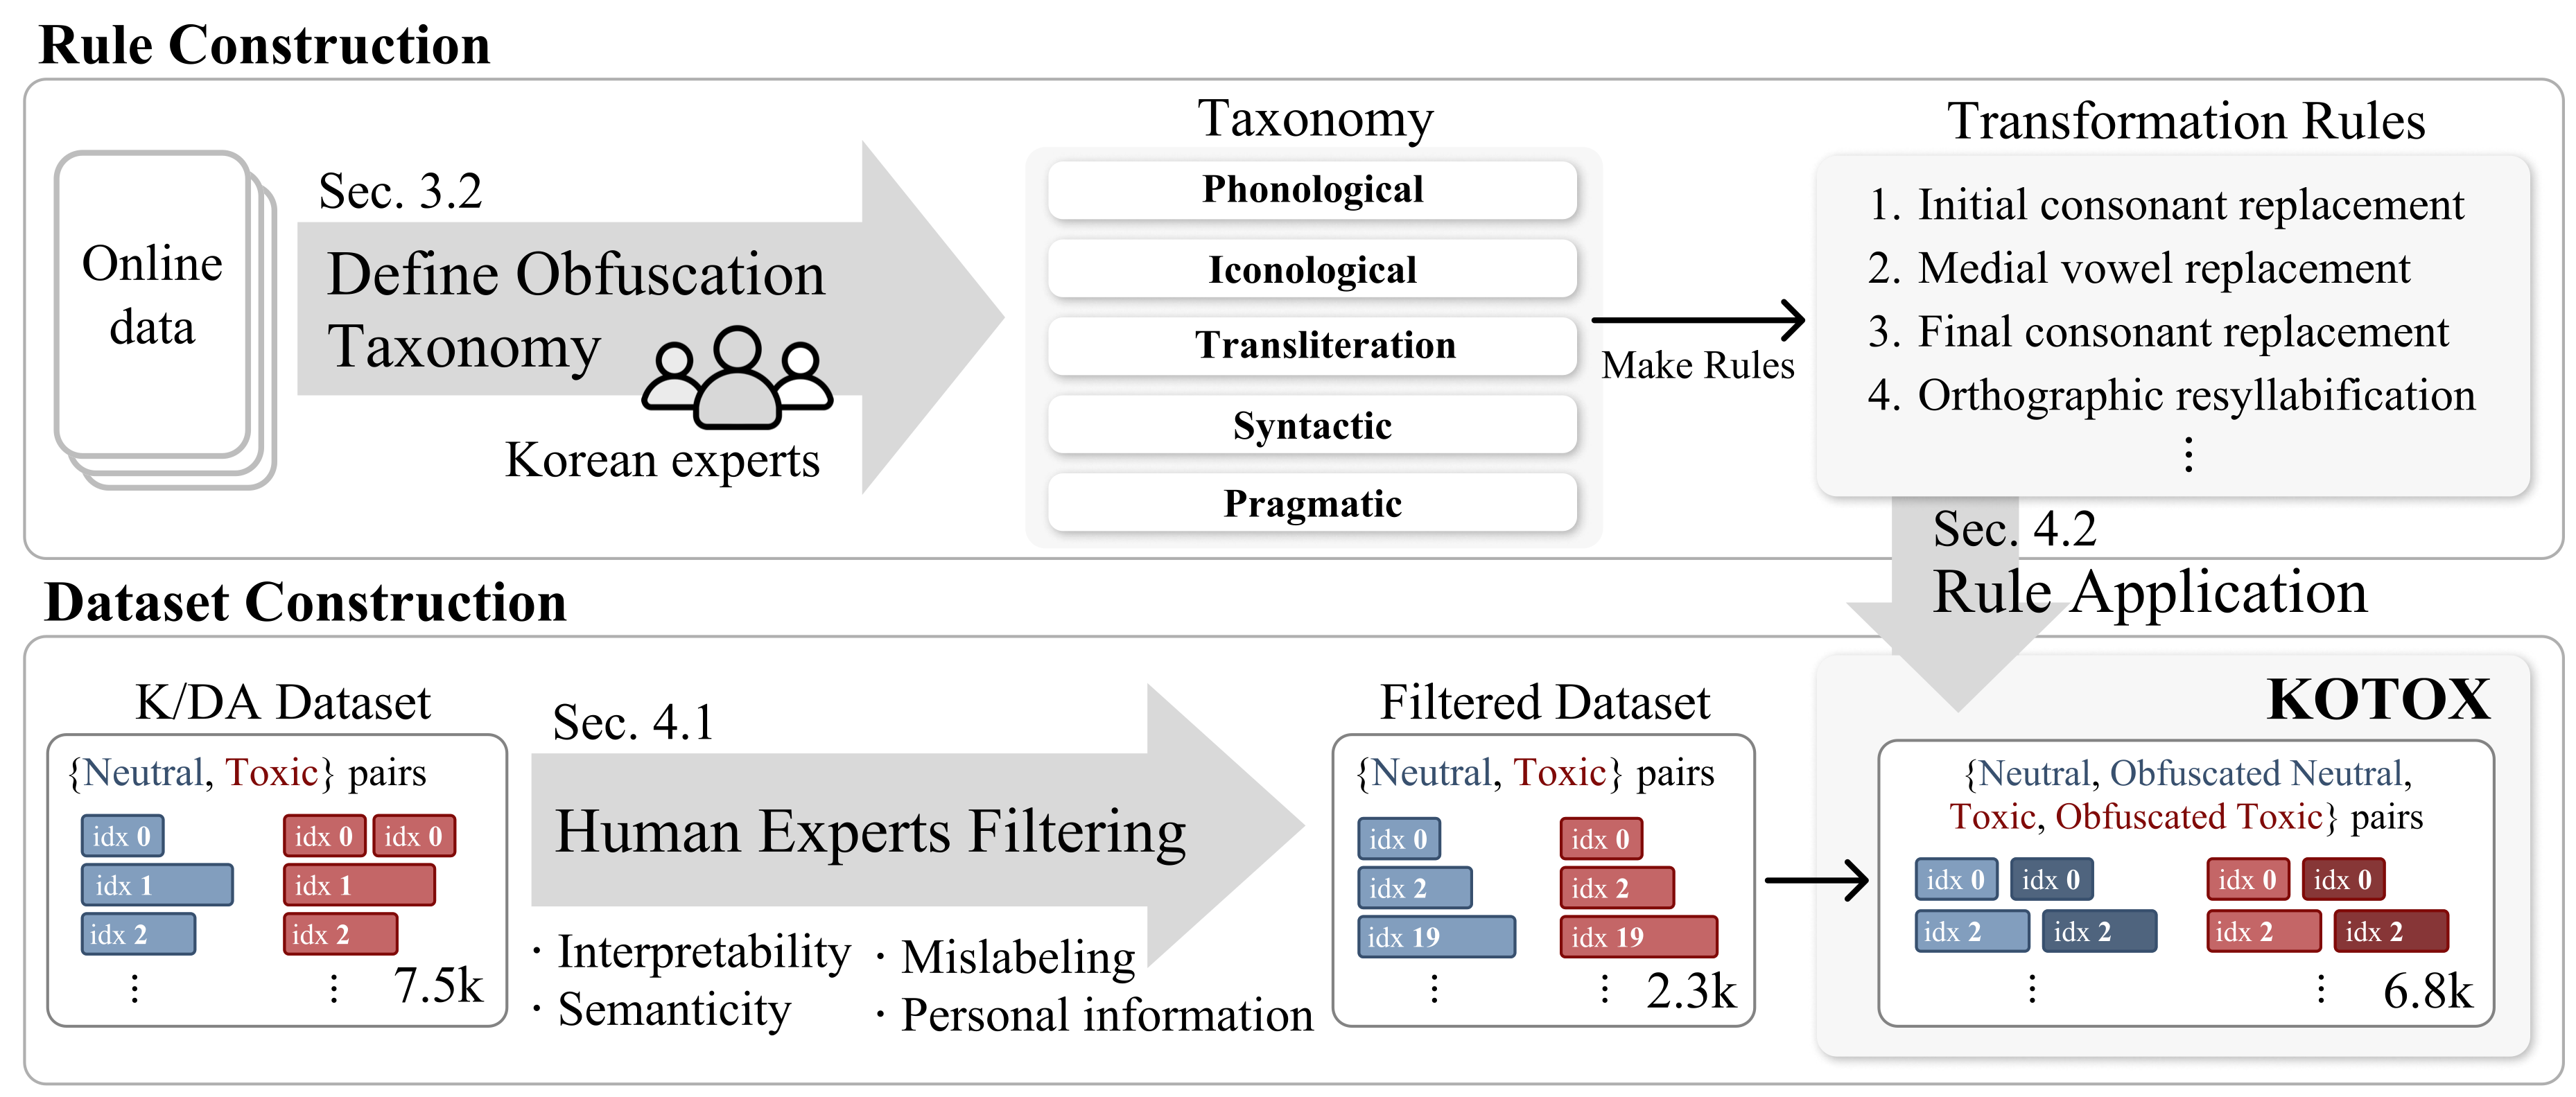
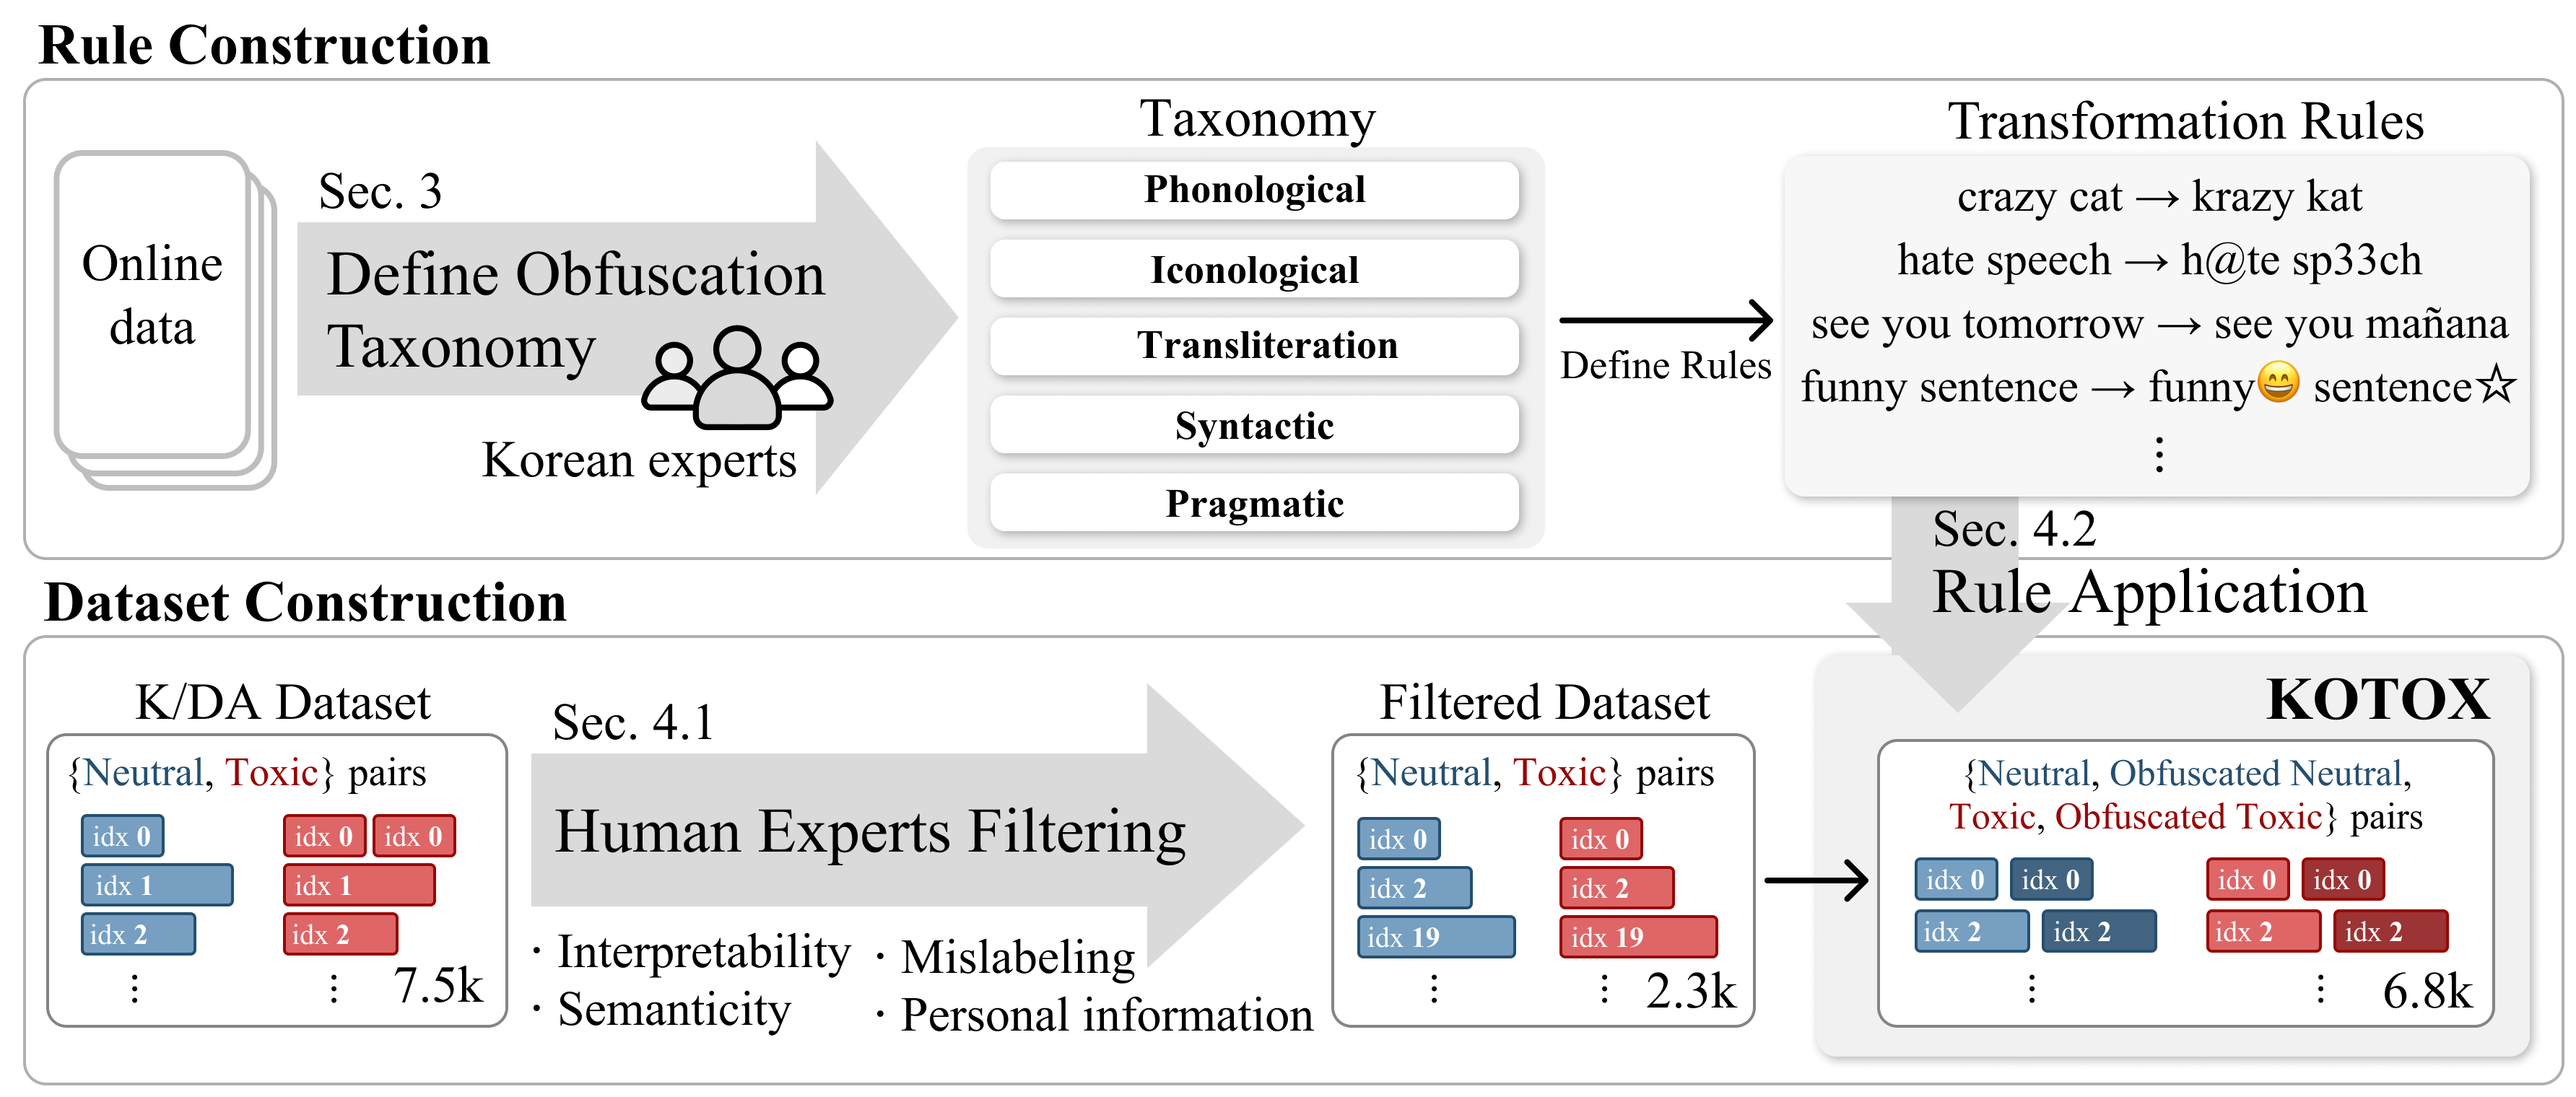
[feat] update readme

diff --git a/README.md b/README.md
@@ -1,4 +1,4 @@
-# KOTOX: A Korean Toxic Text for Obfuscation and Detoxification
+# Obfuscation Rules for Detecting and Detoxifying Korean Toxicity
 
 <p align="center">
   <a href="https://github.com/leeyejin1231/KOTOX/stargazers">
@@ -18,55 +18,61 @@
     <a href="https://huggingface.co/datasets/ssgyejin/KOTOX"><b>🤗 </b>Hugging Face Link</a>
 </div><br>
 
-<span style="color: red">❗️***Warning**: this document contains content that may be offensive or upsetting.*</span>
+<span style="color: red">❗️**\*Warning**: this document contains content that may be offensive or upsetting.\*</span>
 
 > **KOTOX**, the first Korean dataset for deobfuscation and detoxification, was built using linguistically grounded transformation rules to handle obfuscated toxic expressions.
 
 ## 🧪 About KOTOX
+
 <p align="center">
   <img src="./assets/motivation.png" alt="KOTOX motivation" width="350"/>
 </p>
 
-**KOTOX** is the **first Korean dataset** designed for **deobfuscation** and **detoxification** of toxic language. Built from linguistically grounded transformation rules, it introduces obfuscated instances to model how users disguise offensive expressions in Korean. 
+**KOTOX** is the **first Korean dataset** designed for **deobfuscation** and **detoxification** of toxic language. Built from linguistically grounded transformation rules, it introduces obfuscated instances to model how users disguise offensive expressions in Korean.
 
-Unlike previous datasets that focus mainly on English or clean toxic text, KOTOX captures diverse obfuscation patterns specific to **Hangul and Korean phonology**, such as phonological, iconological, transliteration-based, syntactic, and pragmatic variations. 
+Unlike previous datasets that focus mainly on English or clean toxic text, KOTOX captures diverse obfuscation patterns specific to **Hangul and Korean phonology**, such as phonological, iconological, transliteration-based, syntactic, and pragmatic variations.
 
 It supports three complementary tasks—**obfuscated toxic text classification, neutral text deobfuscation, and toxic text sanitization**—providing a unified benchmark to evaluate the robustness of language models against obfuscated toxic content and to advance safer language technologies for low-resource languages.
 
 ## 🗂️ Tasks
+
 The dataset enables **three complementary tasks**:
+
 1. 🧠 **Obfuscated Toxic Text Classification**
+
 - Classify whether an obfuscated sentence is toxic or neutral.
+
 2. 🔤 **Neutral Text Deobfuscation**
+
 - Restore an obfuscated neutral sentence to its original, clean form.
+
 3. 🧼 **Obfuscated Toxic Text Sanitization**
+
 - Rewrite obfuscated toxic text into a deobfuscated, neutral sentence while preserving meaning.
 
 ## 🧩 Obfuscation Rules
 
-
 **KOTOX** defines 17 transformation rules across 5 linguistic approaches, based on Korean linguistic properties.
 
-| Approach | Transformation rule |  Example  |  
-|--|---|---|  
-| **Phonological** | Initial consonant repacement | 한국인 → 한꾹인 |
-|  | Medial vowel replacement| 해수욕장 → 헤수욕장 |
-|  | Final consonant replacement | 한국인 → 핝굮읹 |
-|  | Ortographic reyllabification | 한국인 → 한구긴 |
-|  | Initial consonant insertion | 한국인 → 한국긴 |
-|  | Medial vowel insertion | 한국인 → 환궉윈 |
-|  | Final consonant insertion | 바깥 → 박깥 |
-|  | Liaison | 할 짓이가 → 할찌시가 |
-| **Iconological** | Hangeul look-alike | 귀엽다 → 커엽다 |
-|  | Cross-script substitution | 쭈꾸미 → 卒꾸口I |
-|  | Rotation-based variation | 논문 → 곰국 |
-| **Transliteration** | Phonetic substitution (Latin) | 망했어 → mang했어 |
-|  | Phonetic substitution (CJK) | 수상해 → 水상해 |
-|  | Semantic substitution | 가지마세요 → 돈트고쿠다사이 |
-| **Syntactic** | Spacing perturbation | 화장실 더럽고 별로 → 화장 실더럽 고별로 |
-|  | Syllable anagram | 오랜만에 외국여행을 → 오만랜에 외여국행을 |
-| **Pragmatic** | Symbol/emoji insertion | 돈을 쓰는 호갱 → 돈을°♡ 쓰는《호..갱》≥ㅅ≤ |
-
+| Approach            | Transformation rule           | Example                                    |
+| ------------------- | ----------------------------- | ------------------------------------------ |
+| **Phonological**    | Initial consonant repacement  | 한국인 → 한꾹인                            |
+|                     | Medial vowel replacement      | 해수욕장 → 헤수욕장                        |
+|                     | Final consonant replacement   | 한국인 → 핝굮읹                            |
+|                     | Ortographic reyllabification  | 한국인 → 한구긴                            |
+|                     | Initial consonant insertion   | 한국인 → 한국긴                            |
+|                     | Medial vowel insertion        | 한국인 → 환궉윈                            |
+|                     | Final consonant insertion     | 바깥 → 박깥                                |
+|                     | Liaison                       | 할 짓이가 → 할찌시가                       |
+| **Iconological**    | Hangeul look-alike            | 귀엽다 → 커엽다                            |
+|                     | Cross-script substitution     | 쭈꾸미 → 卒꾸口I                           |
+|                     | Rotation-based variation      | 논문 → 곰국                                |
+| **Transliteration** | Phonetic substitution (Latin) | 망했어 → mang했어                          |
+|                     | Phonetic substitution (CJK)   | 수상해 → 水상해                            |
+|                     | Semantic substitution         | 가지마세요 → 돈트고쿠다사이                |
+| **Syntactic**       | Spacing perturbation          | 화장실 더럽고 별로 → 화장 실더럽 고별로    |
+|                     | Syllable anagram              | 오랜만에 외국여행을 → 오만랜에 외여국행을  |
+| **Pragmatic**       | Symbol/emoji insertion        | 돈을 쓰는 호갱 → 돈을°♡ 쓰는《호..갱》≥ㅅ≤ |
 
 ## 🏗️ Dataset Construction
 
@@ -75,30 +81,32 @@ The dataset enables **three complementary tasks**:
 </p>
 
 ### Base Corpus
+
 - Started from [K/DA](https://github.com/minkyeongjeon/kda) - 7.5k Korean neutral-toxic sentence pairs
 - After manual filtering by annotators → 2,294 high-quality pairs selected as source data
 
-
 ### Rule Application Process
+
 - Applied transformation rules to both neutral and toxic sides of each pair
 - Used an alogorithm to sample and apply 2-4 rules per text, depending on difficulty  
-    **Easy**: 2 rules  
-    **Normal**: 3 rules  
-    **Hard**: 4 rules  
+   **Easy**: 2 rules  
+   **Normal**: 3 rules  
+   **Hard**: 4 rules
 
 ### Dataset Cmoposition
+
 - Final dataset: 6.9k neutral-toxic-pairs + corresponding obfuscated counterparts
 - Split into train/validation/test = 8:1:1 ratio for each difficulty level
 
-|Dataset|train|valid|test|sum|
-|-------|-----|-----|----|---|
-|**easy**|1,835|229|230|2,294
-|**normal**|1,835|229|230|2,294
-|**hard**|1,835|229|230|2,294
-|**total**|5,505|687|690|6,882
-
+| Dataset    | train | valid | test | sum   |
+| ---------- | ----- | ----- | ---- | ----- |
+| **easy**   | 1,835 | 229   | 230  | 2,294 |
+| **normal** | 1,835 | 229   | 230  | 2,294 |
+| **hard**   | 1,835 | 229   | 230  | 2,294 |
+| **total**  | 5,505 | 687   | 690  | 6,882 |
 
 ## ⚒️ Setup
+
 ### Datasets
 
 ```bash
@@ -113,64 +121,79 @@ The dataset enables **three complementary tasks**:
         ├── normal
         ├── hard
         └── total
-``` 
+```
+
 `KOTOX`: for **obfuscation** and **detoxification**, [🤗 huggingface-KOTOX](https://huggingface.co/datasets/ssgyejin/KOTOX)
 
 `KOTOX_classification`: for toxic **hate speech detection**, [🤗 huggingface-KOTOX-classification](https://huggingface.co/datasets/ssgyejin/KOTOX-classification)
 
 ### Environment Setup
-Install the necessary dependencises using the provided requirements  
+
+Install the necessary dependencises using the provided requirements
+
 ```bash
 $ pip install -r requirements.txt
 ```
 
 Add .env file for using OpenAI API
+
 ```.env
 OPENAI_API_KEY= <Your OpenAPI Key>
 ```
+
 Git colne [G2P](https://github.com/seongmin-mun/KoG2Padvanced.git)
+
 ```bash
 $ git clone https://github.com/seongmin-mun/KoG2Padvanced.git
 ```
 
 ## 🚀 Usage
+
 ### Augmentation
 
 ```bash
 $ python augmentation.py
 ```
 
-### Classification 
+### Classification
+
 #### Train
-Modify the `classification/train_config.py` file.   
+
+Modify the `classification/train_config.py` file.
+
 ```bash
 $ cd classification
 $ python train.py
 ```
 
 #### Evaluation
-Modify the `classification/eval_config.py` file.   
+
+Modify the `classification/eval_config.py` file.
+
 ```bash
 $ cd classification
 $ python eval.py
 ```
+
 ### Fine-tuning
+
 Modify the `finetuning/train_examples.sh` file.
+
 ```bash
 $ chmod+x finetuning/train_examples.sh
 $ ./train_examples.sh
 ```
 
 ## Citation
+
 ```
 @misc{lee2025kotoxkoreantoxicdataset,
-      title={KOTOX: A Korean Toxic Dataset for Deobfuscation and Detoxification}, 
+      title={KOTOX: A Korean Toxic Dataset for Deobfuscation and Detoxification},
       author={Yejin Lee and Su-Hyeon Kim and Hyundong Jin and Dayoung Kim and Yeonsoo Kim and Yo-Sub Han},
       year={2025},
       eprint={2510.10961},
       archivePrefix={arXiv},
       primaryClass={cs.CL},
-      url={https://arxiv.org/abs/2510.10961}, 
+      url={https://arxiv.org/abs/2510.10961},
 }
 ```
-